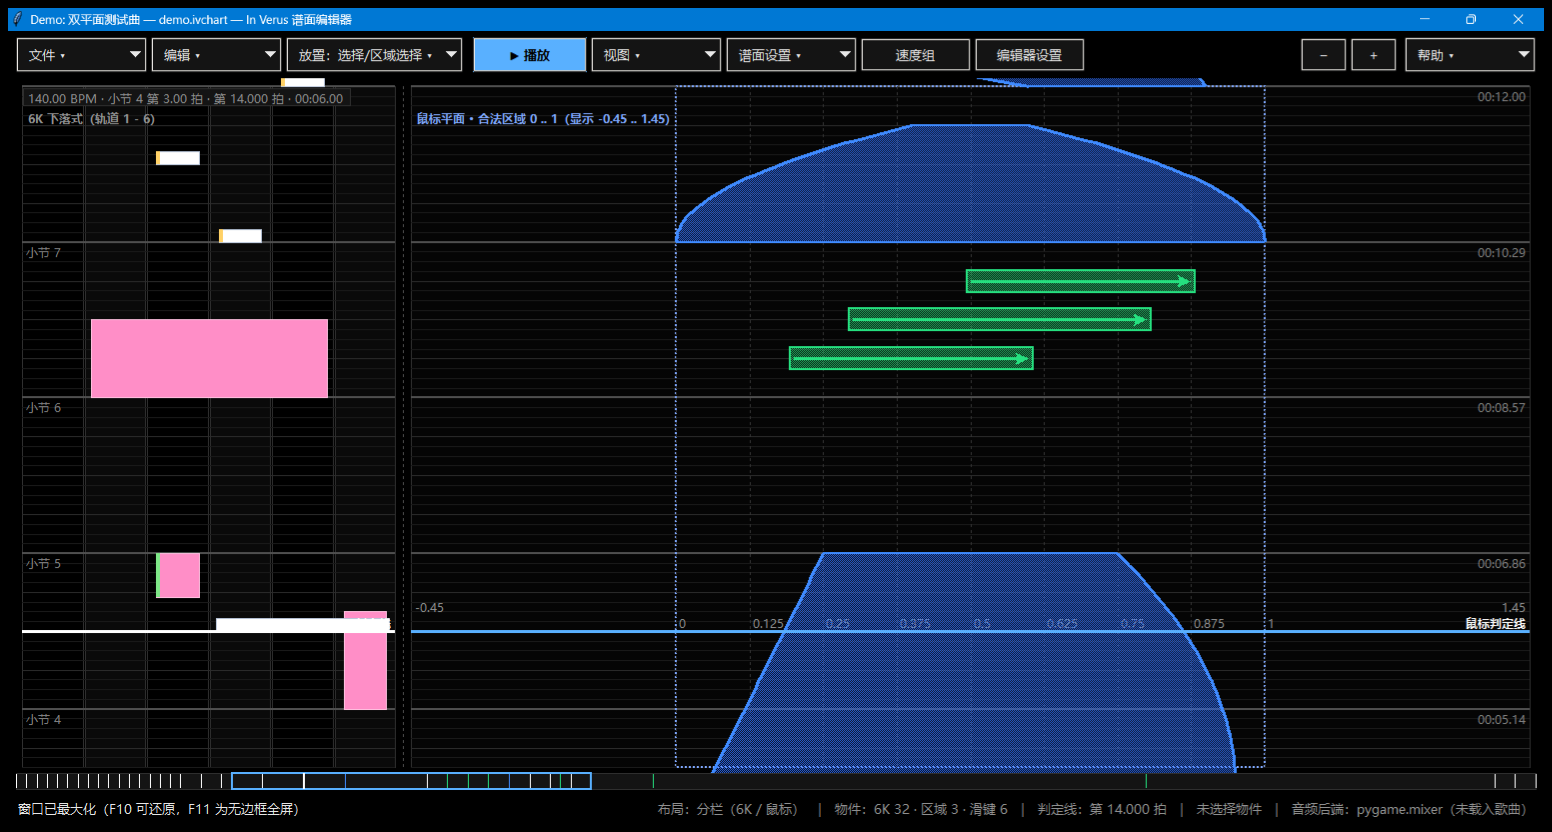
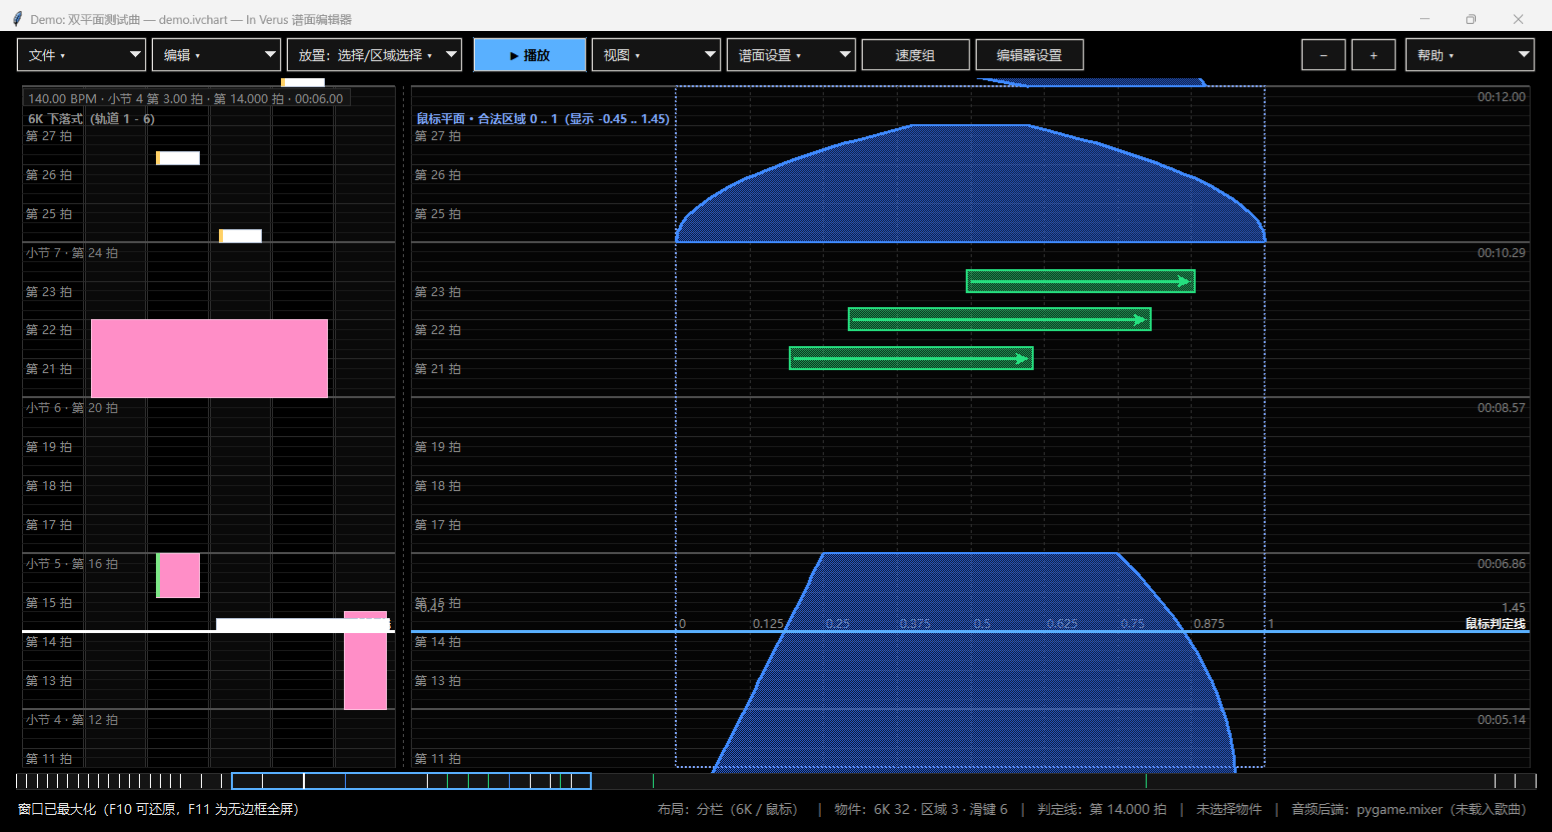
feat(ui): 网格旁标注小节号与绝对拍号，数据面板显示当前判定线拍号
- 小节线：『小节 N · 第 M 拍』；拍线：『第 M 拍』；放大后细分格也标小数拍号（密度自适应）

- BPM 与偏移 / 速度组 / 编辑物件面板底部显示『当前判定线：第 X 拍（小节 Y 第 Z 拍）』，方便照着填数据

- 测试 105 项全部通过；文档与截图同步

diff --git a/src/rhythm_editor/ui/dialogs.py b/src/rhythm_editor/ui/dialogs.py
@@ -196,8 +196,10 @@ class MetadataDialog(BaseDialog):
 class BpmDialog(BaseDialog):
     title_text = "BPM 与偏移设定"
 
-    def __init__(self, parent: tk.Misc, theme: Theme, timing: TimingMap) -> None:
+    def __init__(self, parent: tk.Misc, theme: Theme, timing: TimingMap,
+                 beat_hint: str = "") -> None:
         self.timing = timing
+        self.beat_hint = beat_hint
         self.segments: List[BpmSegment] = [
             BpmSegment(s.start_beat, s.bpm, s.beats_per_bar) for s in timing.segments
         ]
@@ -249,6 +251,8 @@ class BpmDialog(BaseDialog):
             text="从第 0 拍开始的一项不允许删除，只能修改；BPM 列表不影响物件运动速度。",
             style="Warn.TLabel",
         ).pack(anchor="w", pady=(6, 0))
+        if self.beat_hint:
+            ttk.Label(body, text=self.beat_hint, style="Dim.TLabel").pack(anchor="w", pady=(2, 0))
         self._refresh()
 
     # ---------------------------------------------------------- 表格逻辑
@@ -464,8 +468,10 @@ class SpeedGroupDialog(BaseDialog):
     title_text = "速度组"
     ok_text = "关闭"
 
-    def __init__(self, parent: tk.Misc, theme: Theme, document: Document) -> None:
+    def __init__(self, parent: tk.Misc, theme: Theme, document: Document,
+                 beat_hint: str = "") -> None:
         self.document = document
+        self.beat_hint = beat_hint
         self.changed = False
         super().__init__(parent, theme)
 
@@ -523,6 +529,10 @@ class SpeedGroupDialog(BaseDialog):
             style="Dim.TLabel",
             justify="left",
         ).pack(anchor="w", pady=(6, 0))
+        if self.beat_hint:
+            ttk.Label(right, text=self.beat_hint, style="Dim.TLabel", justify="left").pack(
+                anchor="w", pady=(2, 0)
+            )
         self._refresh_groups()
 
     # -------------------------------------------------------------- 组
@@ -662,8 +672,9 @@ class SpeedGroupDialog(BaseDialog):
 class NoteEditDialog(BaseDialog):
     title_text = "编辑物件"
 
-    def __init__(self, parent: tk.Misc, theme: Theme, note: Note) -> None:
+    def __init__(self, parent: tk.Misc, theme: Theme, note: Note, beat_hint: str = "") -> None:
         self.note = note
+        self.beat_hint = beat_hint
         super().__init__(parent, theme)
 
     def _build(self) -> None:
@@ -726,6 +737,10 @@ class NoteEditDialog(BaseDialog):
             ).grid(row=4, column=0, columnspan=2, sticky="w", pady=(4, 0))
         else:  # pragma: no cover
             ttk.Label(body, text="未知物件类型").grid(row=0, column=0)
+        if self.beat_hint:
+            ttk.Label(body, text=self.beat_hint, style="Dim.TLabel").grid(
+                row=30, column=0, columnspan=4, sticky="w", pady=(8, 0)
+            )
 
     def _ok(self) -> None:
         note = self.note

diff --git a/src/rhythm_editor/app.py b/src/rhythm_editor/app.py
@@ -504,7 +504,7 @@ class EditorApp:
 
     def edit_timing(self) -> None:
         timing: Optional[TimingMap] = run_dialog(
-            BpmDialog, self.root, self.theme, self.document.chart.timing
+            BpmDialog, self.root, self.theme, self.document.chart.timing, self._beat_hint()
         )
         if timing is None:
             return
@@ -536,9 +536,21 @@ class EditorApp:
         )
 
     def edit_speed_groups(self) -> None:
-        changed = run_dialog(SpeedGroupDialog, self.root, self.theme, self.document)
+        changed = run_dialog(
+            SpeedGroupDialog, self.root, self.theme, self.document, self._beat_hint()
+        )
         if changed:
             self.status("速度组已更新")
+
+    def _beat_hint(self) -> str:
+        """给数据面板用的提示：当前判定线在第几拍（便于照着填数据）。"""
+        timing = self.document.chart.timing
+        beat = self.view.current_beat
+        bar, in_bar = timing.bar_index_at(beat)
+        return (
+            f"当前判定线：第 {beat:.3f} 拍"
+            f"（小节 {bar + 1} 第 {in_bar + 1:.2f} 拍 · {self.view.time_label(beat)}）"
+        )
 
     def show_guide(self) -> None:
         """操作指南（与快捷键拆成两个独立窗口）。"""
@@ -554,14 +566,14 @@ class EditorApp:
     def _region_editor(self, beat_start: float, beat_end: float) -> Optional[Dict]:
         """停留区域：先取时间，再用对话框设置两条边界的首尾位置与线型。"""
         template = MouseRegion("temp", beat_start, beat_end, BoundaryCurve(0.0, 0.0), BoundaryCurve(1.0, 1.0))
-        return run_dialog(NoteEditDialog, self.root, self.theme, template)
+        return run_dialog(NoteEditDialog, self.root, self.theme, template, self._beat_hint())
 
     def edit_selected(self) -> None:
         note = self.document.single_selected()
         if note is None:
             self.status("编辑功能需要只选择 1 个物件")
             return
-        data = run_dialog(NoteEditDialog, self.root, self.theme, note)
+        data = run_dialog(NoteEditDialog, self.root, self.theme, note, self._beat_hint())
         if not data:
             return
         self.document.replace_note(note.id, data)

diff --git a/src/rhythm_editor/ui/renderer.py b/src/rhythm_editor/ui/renderer.py
@@ -341,6 +341,7 @@ class Renderer:
         key_prefix: str = "grid",
         bar_labels: bool = True,
         time_labels: bool = True,
+        beat_labels: bool = True,
     ) -> None:
         theme = self.theme
         layout = view.layout
@@ -349,6 +350,9 @@ class Renderer:
         sub_step = 1.0 / division
         draw_sub = (ppb / division) >= 7.0
         draw_beat = ppb >= 9.0
+        # 拍号标注：方便用户照着网格填写“第几拍”的数据
+        show_beat_labels = beat_labels and ppb >= 24.0
+        show_sub_labels = beat_labels and (ppb / division) >= 44.0
         # 密度自适应：太密时只画拍线，再密时只画小节线
         if draw_sub:
             base_step = sub_step
@@ -385,7 +389,7 @@ class Renderer:
                         f"{key_prefix}-label:{i}",
                         x0 + 4,
                         y + 2,
-                        f"小节 {bar_index + 1}",
+                        f"小节 {bar_index + 1} · 第 {beat:g} 拍",
                         fill=theme.grid_label,
                         font=theme.font(theme.font_small),
                         anchor="nw",
@@ -400,6 +404,26 @@ class Renderer:
                         font=theme.font(theme.font_small),
                         anchor="ne",
                     )
+            elif show_beat_labels and is_beat:
+                self.scene.text(
+                    f"{key_prefix}-beat:{i}",
+                    x0 + 4,
+                    y + 2,
+                    f"第 {beat:g} 拍",
+                    fill=theme.text_dim,
+                    font=theme.font(theme.font_small),
+                    anchor="nw",
+                )
+            elif show_sub_labels and not is_beat:
+                self.scene.text(
+                    f"{key_prefix}-sub:{i}",
+                    x0 + 4,
+                    y + 2,
+                    f"第 {beat:g} 拍",
+                    fill=theme.text_dim,
+                    font=theme.font(theme.font_small),
+                    anchor="nw",
+                )
 
     # ------------------------------------------------------------------ 物件
     def _group(self, chart: Chart, note: Note) -> SpeedGroup:

diff --git a/tests/test_editor_smoke.py b/tests/test_editor_smoke.py
@@ -112,6 +112,20 @@ class EditorSmokeTest(unittest.TestCase):
         self.draw()
         self.assertNotIn("hgrid:0", self.scene._items)
 
+    def test_grid_labels_show_bar_and_beat_numbers(self) -> None:
+        """网格旁要同时标注小节号与绝对拍号（方便照抄填写数据）。"""
+        self.view.set_beat(8.0)
+        self.draw()
+        texts = [
+            dict(options).get("text", "")
+            for _item_id, _kind, spec in self.scene._items.values()
+            for options in (spec[1],)
+        ]
+        bar_labels = [t for t in texts if t.startswith("小节 ")]
+        self.assertTrue(bar_labels, "应该有小节标注")
+        self.assertTrue(any("第 8 拍" in t for t in bar_labels), f"小节标注要带拍号：{bar_labels}")
+        self.assertTrue(any(t == "第 9 拍" or t == "第 7 拍" for t in texts), "拍线旁应有绝对拍号")
+
     def test_judgment_line_is_grid_aligned(self) -> None:
         self.chart.settings.grid_division = 4
         self.view.set_beat(3.4)

diff --git a/docs/VERIFICATION.md b/docs/VERIFICATION.md
@@ -113,7 +113,7 @@ python tools/check_audio.py
 
 | 项目 | 命令 | 结果 |
 | --- | --- | --- |
-| 单元测试（含 Tk 画布冒烟测试与应用级测试） | `python -m unittest discover -s tests -t .` | Ran 102 tests — **OK** |
+| 单元测试（含 Tk 画布冒烟测试与应用级测试） | `python -m unittest discover -s tests -t .` | Ran 105 tests — **OK** |
 | 需求验收清单 | `python tools/acceptance.py` | 13 项全部 `[OK ]`，结论：全部通过 |
 | 音频后端 | `python tools/check_audio.py` | 9 项全部 `[OK ]`（pygame.mixer 真实播放，延迟补偿正确） |
 | 示例谱面生成 | `python run_editor.py --make-demo` | 生成 `charts/demo/demo.ivchart`（6K 32 / 区域 3 / 滑键 6 / 4 个速度组） |
@@ -152,6 +152,7 @@ python tools/check_audio.py
 | `tests/test_app_flow.py::test_help_menu_has_guide_and_shortcuts_only` | 帮助菜单只有操作指南与快捷键（无“关于”） |
 | `tests/test_app_flow.py::test_zoom_buttons_direction` | `+` 放大、`−` 缩小，与滚轮手感一致 |
 | `tests/test_editor_smoke.py::test_wheel_scrolls_exactly_one_grid_step` | 滚轮一格 = 一个网格格（细分改变后随之改变），且始终吸附网格 |
+| `tests/test_editor_smoke.py::test_grid_labels_show_bar_and_beat_numbers` | 小节线标注带绝对拍号、拍线旁有拍号（方便填数据） |
 | `tests/test_app_flow.py::test_fullscreen_toggle` | 全屏开关切换 |
 | `tests/test_app_flow.py::test_maximized_by_default` | 默认最大化（`-fullscreen` 属性为 0），不是无边框全屏 |
 | `tests/test_app_flow.py::test_toggle_maximize_and_fullscreen` | 最大化 / 还原 / 全屏互斥切换 |

diff --git a/docs/USER_GUIDE.md b/docs/USER_GUIDE.md
@@ -20,6 +20,13 @@ python run_editor.py charts/demo/demo.ivchart --fullscreen  # 无边框全屏
 * 滚轮一格 = 时间网格一格（`1 / 网格细分` 拍），`Shift + 滚轮` 一次滚动 1 拍；
   滚动后自动吸附回网格，判定线不会停在格子之间。
 * 缩放：`Ctrl + 滚轮`、顶栏 `−` / `+`，或「视图 → 缩放」；`+` 放大、`−` 缩小。
+
+### 照着画面填拍号
+
+* 小节线旁写着「小节 N · 第 M 拍」，拍线旁写着「第 M 拍」（放大后细分格也会标，
+  例如「第 16.25 拍」）。
+* 打开「BPM 与偏移」「速度组」「编辑物件」时，面板底部会显示
+  「当前判定线：第 X 拍（小节 Y 第 Z 拍）」，可以直接抄进输入框。
 * **上方工具栏（黑底按钮 + 二级菜单）**：只保留分组入口
   「文件 / 编辑 / 放置 / 视图 / 谱面设置」+「播放 / 暂停」+「速度组」+「编辑器设置」
   + 快速缩放（`−` / `+`）。各分组里的具体功能：

diff --git a/docs/SPEC.md b/docs/SPEC.md
@@ -58,6 +58,10 @@
 * 节拍网格：每拍细分为 `grid_division` 份（正整数，随时可改）；
   小节线按每个 BPM 段的“每小节拍数”重算并标出小节号与时间戳。
 * 密度自适应：细分线间距过小时自动只画拍线 / 小节线，避免糊成一片。
+* **拍号标注**：小节线旁标注「小节 N · 第 M 拍」，拍线旁标注「第 M 拍」，
+  缩放得足够近时连细分格也标拍号（如「第 16.25 拍」）——方便照着画面填写各类
+  以“拍”为单位的参数（BPM 起始拍、流速起始拍、物件时间等）。
+  数据面板（BPM 与偏移、速度组、编辑物件）底部同时显示“当前判定线：第 X 拍（小节 Y 第 Z 拍）”。
 
 ### 鼠标区域
 

diff --git a/docs/DESIGN.md b/docs/DESIGN.md
@@ -136,6 +136,10 @@ y_note  = judgment_y − D(t) × 每拍像素
 2. **判定时间**（`geometry.note_in_time`）—— 判定线越过物件的判定时刻后不再显示，
    长按与停留区域按 `tail_beat` 计算。渲染与命中测试共用这条规则。
 
+网格文字（`_draw_time_grid`）承担“照着填数据”的职责：小节线写「小节 N · 第 M 拍」，
+拍线写「第 M 拍」，细分格在间距足够时写小数拍号；密度不足时逐级隐藏，
+避免糊成一片。
+
 Tk 画布没有 alpha 通道，半透明用 `stipple`（点阵）模拟：
 停留区域填充 `gray50` + 不透明描边，滑键填充 `gray50` + 不透明箭头，
 与规格要求的“半透明填充 + 不透明边界”一致。

diff --git a/CHANGELOG.md b/CHANGELOG.md
@@ -18,6 +18,9 @@
   长按 / 停留区域按结束时刻）；已判过的物件也不能再被点选。
 * **画布宽度重新分配**：6K 区域只占约四分之一，其余给鼠标平面；鼠标平面在合法区域
   0..1 之外各多显示 0.45（显示范围 -0.45 .. 1.45），超出部分在区域边界截断。
+* **网格拍号标注**：小节线显示「小节 N · 第 M 拍」，拍线显示「第 M 拍」，
+  放大后细分格也标拍号；BPM / 速度组 / 物件编辑面板底部同时显示当前判定线拍号，
+  方便照着画面填写以“拍”为单位的数据。
 
 ## 0.2.0 — 界面重构
 
